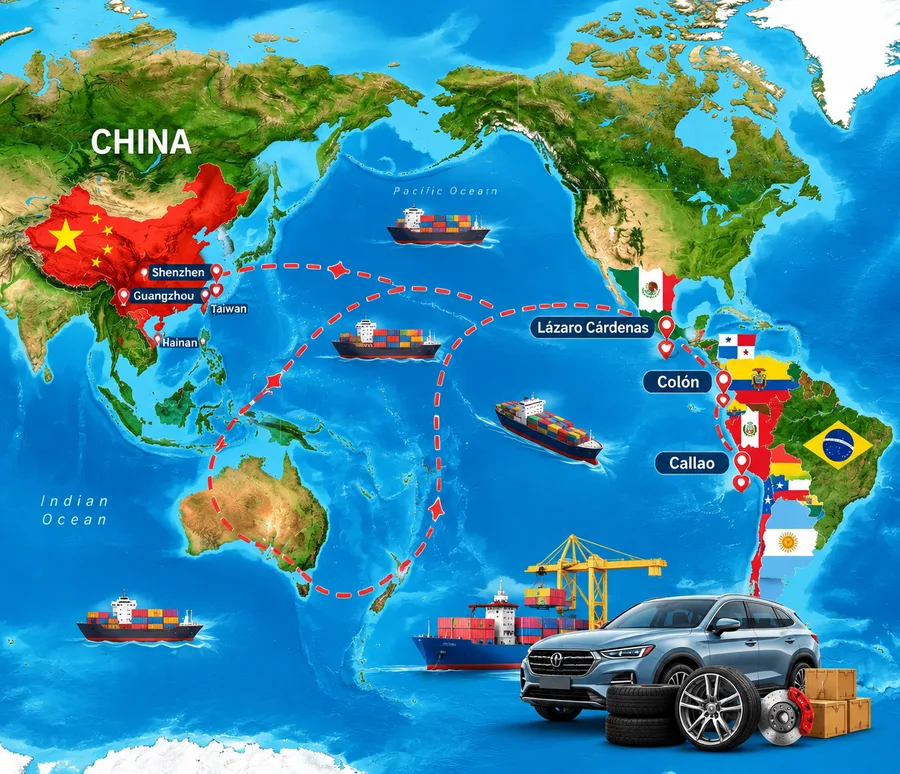
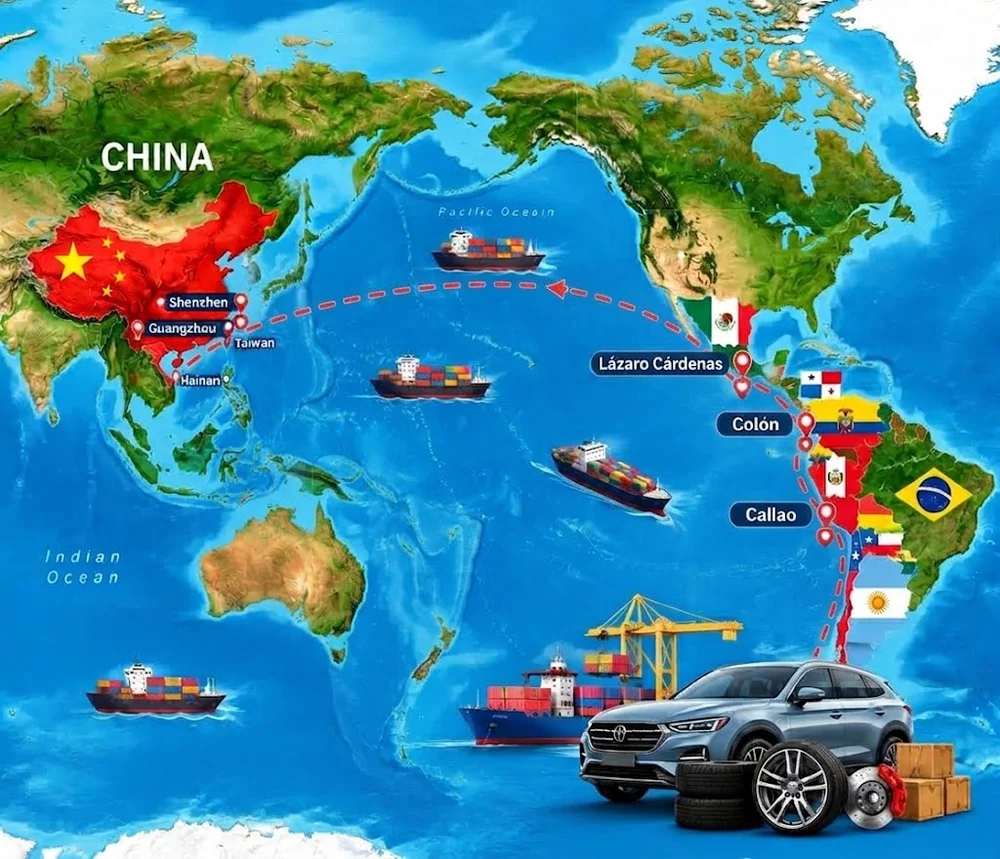
Replace hero map image, drop promise card, fix mobile hamburger position
Swap in an updated shipping-route map graphic. Remove the "Three-Layer
Promise" card entirely (was already hidden on mobile/tablet, and its
copy had become redundant after earlier trims) so the hero is just
headline+CTA on the left and the map on the right; center hero-left's
content vertically so both columns sit on the same visual axis.

Move the mobile hamburger button into .nav-right so it sits directly
next to the language switcher instead of floating alone in the middle
of the nav bar with justify-content:space-between.

diff --git a/index.html b/index.html
@@ -121,7 +121,7 @@ nav{background:var(--navy);display:flex;justify-content:space-between;align-item
 .hero-btns{display:flex;gap:1rem;flex-wrap:wrap}
 .btn-main{background:var(--coral);color:white;padding:0.9rem 1.8rem;font-size:0.85rem;letter-spacing:0.08em;text-transform:uppercase;font-weight:500;border:none;cursor:pointer}
 .btn-outline{border:1.5px solid rgba(255,255,255,0.3);color:white;padding:0.9rem 1.8rem;font-size:0.85rem;letter-spacing:0.08em;text-transform:uppercase;cursor:pointer;background:transparent}
-.hero-left{display:flex;flex-direction:column}
+.hero-left{display:flex;flex-direction:column;justify-content:center}
 .hero-map{display:flex;align-items:center}
 .hero-map img{width:100%;height:auto;display:block;border-radius:12px}
 .hero-card{background:rgba(255,255,255,0.06);border:1px solid rgba(255,255,255,0.12);padding:2rem;margin-top:2.5rem}
@@ -320,10 +320,10 @@ footer{flex-direction:column;gap:0.75rem;text-align:center;padding:1.5rem}
     <a href="/about" data-en="About" data-es="Nosotros">About</a>
     <a href="#contact" data-en="Contact" data-es="Contacto">Contact</a>
   </div>
-  <button class="nav-hamburger" onclick="this.closest('nav').classList.toggle('nav-open')" aria-label="Menu">
-    <span></span><span></span><span></span>
-  </button>
   <div class="nav-right">
+    <button class="nav-hamburger" onclick="this.closest('nav').classList.toggle('nav-open')" aria-label="Menu">
+      <span></span><span></span><span></span>
+    </button>
     <div class="lang-switcher">
       <button class="lang-btn active" onclick="setLang('en')">EN</button>
       <button class="lang-btn" onclick="window.location='/es/'">ES</button>
@@ -340,11 +340,6 @@ footer{flex-direction:column;gap:0.75rem;text-align:center;padding:1.5rem}
     <div class="hero-btns">
       <button class="btn-main" onclick="document.getElementById('contact').scrollIntoView({behavior:'smooth'})" data-en="Consult Us Now" data-es="Consulta Ahora">Consult Us Now</button>
       <button class="btn-outline" onclick="document.getElementById('services').scrollIntoView({behavior:'smooth'})" data-en="See Services" data-es="Ver servicios">See Services</button>
-    </div>
-    <div class="hero-card">
-      <div class="hero-card-tag" data-en="Our three-layer promise" data-es="Nuestra promesa en tres capas">Our three-layer promise</div>
-      <h2 data-en="Certainty. Peace of mind. Honest prices." data-es="Certeza. Tranquilidad. Precios honestos.">Certainty. Peace of mind. Honest prices.</h2>
-      <a href="https://wa.me/8613688057230" class="hero-card-badge" target="_blank" rel="noopener" data-en="Chat on WhatsApp →" data-es="Chatear por WhatsApp →">Chat on WhatsApp →</a>
     </div>
   </div>
   <div class="hero-map"><img src="/images/latam-china-shipping-route-map.webp" alt="Shipping route map from Guangzhou, China to Latin American ports including Lázaro Cárdenas, Colón, and Callao" loading="eager"></div>

diff --git a/es/index.html b/es/index.html
@@ -105,7 +105,7 @@ nav{background:var(--navy);display:flex;justify-content:space-between;align-item
 .hero-btns{display:flex;gap:1rem;flex-wrap:wrap}
 .btn-main{background:var(--coral);color:white;padding:0.9rem 1.8rem;font-size:0.85rem;letter-spacing:0.08em;text-transform:uppercase;font-weight:500;border:none;cursor:pointer}
 .btn-outline{border:1.5px solid rgba(255,255,255,0.3);color:white;padding:0.9rem 1.8rem;font-size:0.85rem;letter-spacing:0.08em;text-transform:uppercase;cursor:pointer;background:transparent}
-.hero-left{display:flex;flex-direction:column}
+.hero-left{display:flex;flex-direction:column;justify-content:center}
 .hero-map{display:flex;align-items:center}
 .hero-map img{width:100%;height:auto;display:block;border-radius:12px}
 .hero-card{background:rgba(255,255,255,0.06);border:1px solid rgba(255,255,255,0.12);padding:2rem;margin-top:2.5rem}
@@ -300,10 +300,10 @@ footer{flex-direction:column;gap:0.75rem;text-align:center;padding:1.5rem}
     <a href="/about">Nosotros</a>
     <a href="#contacto">Contacto</a>
   </div>
-  <button class="nav-hamburger" onclick="this.closest('nav').classList.toggle('nav-open')" aria-label="Menú">
-    <span></span><span></span><span></span>
-  </button>
   <div class="nav-right">
+    <button class="nav-hamburger" onclick="this.closest('nav').classList.toggle('nav-open')" aria-label="Menú">
+      <span></span><span></span><span></span>
+    </button>
     <div class="lang-switcher">
       <a class="lang-btn" href="/">EN</a>
       <button class="lang-btn active">ES</button>
@@ -320,11 +320,6 @@ footer{flex-direction:column;gap:0.75rem;text-align:center;padding:1.5rem}
     <div class="hero-btns">
       <button class="btn-main" onclick="document.getElementById('contacto').scrollIntoView({behavior:'smooth'})">Consulta Ahora</button>
       <button class="btn-outline" onclick="document.getElementById('servicios').scrollIntoView({behavior:'smooth'})">Ver servicios</button>
-    </div>
-    <div class="hero-card">
-      <div class="hero-card-tag">Nuestra promesa en tres capas</div>
-      <h3>Certeza. Tranquilidad. Precios honestos.</h3>
-      <a href="https://wa.me/8613688057230" class="hero-card-badge" target="_blank" rel="noopener">Chatear por WhatsApp →</a>
     </div>
   </div>
   <div class="hero-map"><img src="/images/latam-china-shipping-route-map.webp" alt="Mapa de ruta de envío desde Guangzhou, China hasta puertos de Latinoamérica incluyendo Lázaro Cárdenas, Colón y Callao" loading="eager"></div>
